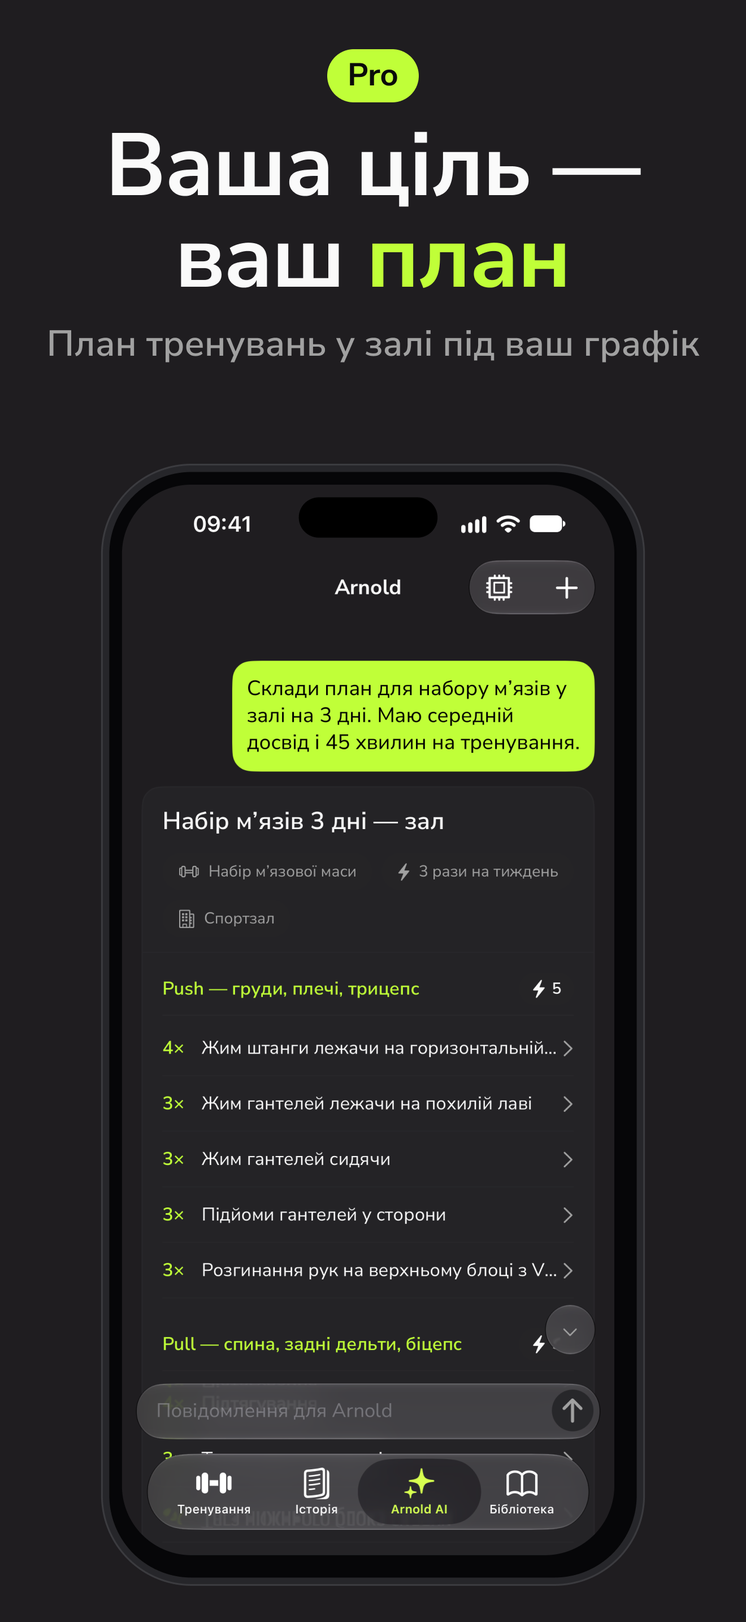
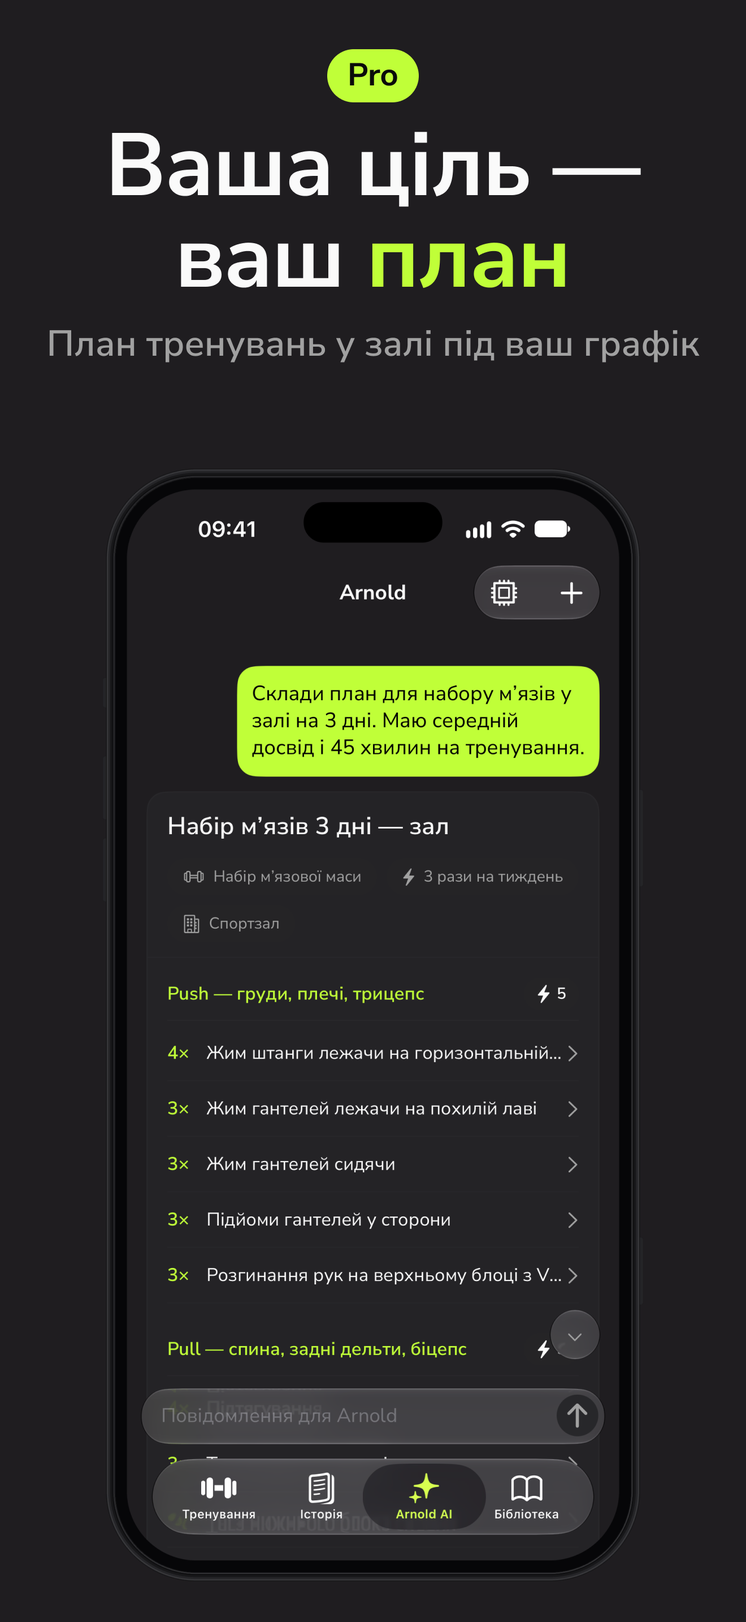
chore(mobile): realign the App Store screenshots and push them to a pending release by hand
The phones in the Figma App Store frames were hand-built mockups whose
screen sat off-centre and overflowed the bezel. Each is now an image layer
holding the matching framed PNG from marketing/screenshots/framed, and the
20 Screenshot sets are re-exported from those frames.

Adds the Update App Store Screenshots workflow: run by hand from main, it
pushes main's Screenshot sets, with the tag's own listing text, to the latest
release's App Store Connect draft without a build.

Changed region(s): [[0.1242, 0.2793, 0.8697, 0.962], [0.4348, 0.3414, 0.5591, 0.3724]]

diff --git a/AGENTS.md b/AGENTS.md
@@ -103,7 +103,7 @@ the build job (EAS build and auto-submit) has succeeded, using the existing EAS
 App Store Connect submission key, with the tag's App Store Screenshot sets
 (`marketing/screenshots/app-store/`) staged into it first by
 `node scripts/app-store-screenshots.mjs prepare` in the runner's temp
-directory; re-running that job alone retries the push without a new build. Never push
+directory; re-running that job alone retries the push without a new build. To fix a pending release's screenshots without a build, run the Update App Store Screenshots workflow (`update-app-store-screenshots.yml`) by hand from `main`: it pushes `main`'s Screenshot sets with the latest tag's own listing text to that version's draft, only while it's still editable. Never push
 metadata from PRs. `eas metadata:pull` also exports private review details and
 assets: retain only public listing text before staging. See README's App Store
 listing section for commands, credentials and draft verification.
@@ -614,7 +614,7 @@ Then review the diff against that intent: flag code that misses an acceptance cr
 
 ## CI/CD
 
-GitHub Actions use pnpm (`pnpm/action-setup`), `pnpm install --frozen-lockfile` and Node 24, the repo's minimum (root `engines`; EVE in `apps/arnold` needs it). Linux jobs run on a pinned `ubuntu-24.04` (never `ubuntu-latest`), every job sets `timeout-minutes` (a few times its usual run, so a hung test fails in minutes instead of GitHub's 6 h default; a job calling a reusable workflow can't, so the called workflow's job does), every pull request workflow has a `concurrency` group keyed on the pull request number with `cancel-in-progress` (a new push cancels the superseded run; any other run, `workflow_call` included, is keyed on its own run id, so it's never cancelled), actions stay on majors that run on Node 24, and every workflow runs the lockfile's Supabase CLI (the `@fitme/supabase` devDependency) through `pnpm exec`, never `supabase/setup-cli`. Unit tests run through `pnpm turbo run test`; the `checks` job runs `pnpm check`, the literal check (`pnpm literal-check`), the text check (`pnpm text-check`) and `pnpm typecheck`, after writing the `apps/mobile/expo-env.d.ts` that `expo start` generates (gitignored; its `expo/types` widen `ViewStyle` with web props), so mobile is typechecked as it is on a developer's machine, then `expo install --check` on the mobile app, non-blocking (`continue-on-error`, a warning annotation): Expo packages that fell behind the SDK's current patches show on the pull request without failing it, and are caught up by pinning each to the version it expects (exact versions, as `apps/mobile/package.json` pins every dependency), which Dependabot (`.github/dependabot.yml`) does on its own: every Monday one grouped `fix(mobile):` pull request with the patch releases of `expo`, `expo-*` (but `expo-mcp`), `@expo/*` and `jest-expo` (never a minor or major, so never a new SDK; `react-native`, the `react-native-*` libraries the check also covers and every other package stay by hand), at npm's latest patch rather than the version Expo expects, so this check on its pull request still shows any difference; the `secrets` job runs a pinned gitleaks release (checksum-verified) over the pull request's commits (see **Git**); the pgTAP suite and the MCP, `apps/api`, `packages/db` and `packages/services` integration tests run separately against a local Supabase stack (Supabase CLI, Supavisor in transaction mode) in `.github/workflows/integration-tests.yml`. Every `supabase start` / `db start` in CI is tried three times, stopping the stack in between, since the image registry's `toomanyrequests` throttle on shared runner IPs fails an occasional pull; a failure after the third attempt is real. The E2E workflow (`.github/workflows/e2e.yml`, run by hand through `workflow_dispatch`; `release.yml` doesn't call it yet) creates a Supabase preview branch, applies the migrations, and runs `apps/api` (its build, `node dist/node/index.js` on port 3003) on its macOS runner against it: the `fitme` login gets a password generated for the run (`openssl rand -hex 32`, masked, set through the Management API, never stored), the API gets the branch's transaction pooler URL as `fitme.<tenant>` with `application_name=api`, the Clerk development instance's `CLERK_JWT_KEY` (`pnpm --silent db clerk:jwt-key`, the E2E Users are on it), and no Upstash (the in-memory limiter) and no `LIBRARY_URL` / `LIBRARY_PUBLIC_API_SECRET` (no E2E flow saves a Plan, so no production secret goes into GitHub; a flow that does needs its own decision). The job fails if the API exits or `/health` doesn't answer within a minute; `clerk:check` with `API_URL` then proves a +clerk_test User's session token is accepted by the branch's Data API and by the API (`GET /v1/profile` answering 200; `CLERK_DEV_SECRET_KEY` required). The app is built with `EXPO_PUBLIC_API_URL=http://localhost:3003`, and the API's log (`apps/api/e2e-api.log`, checked for the password first) is uploaded with the Maestro results. The release workflow (`.github/workflows/release.yml`) never commits to `main` (it's protected): it derives the next version from the commits since the last `v*` tag following conventional commits (`feat:` → minor, `fix:` → patch, `BREAKING CHANGE:` or `type!:` → major), creates the tag with the GitHub release and the Linear release, then calls `.github/workflows/build-mobile.yml`. That workflow (also runnable by hand with a tag, to rebuild) stamps the tag's version into `apps/mobile/app.json` (whose committed `version` is a `0.0.0` placeholder) and starts the iOS production EAS build with auto-submit (every EAS profile extends `base` in `eas.json`, which pins the build's Node 24 version); once that `build` job has succeeded, its separate `listing` job checks the same tag out again, stamps the tag's version into `apps/mobile/store.config.json`'s `apple.version`, runs the screenshot script's `prepare` into `$RUNNER_TEMP` (the tag's Screenshot sets staged under content-derived names and written into the config's `screenshots` entries; a failure stops the job before the push; skipped for a tag without the script, which pushes text only) and runs `eas metadata:push` (skipped for an old tag without that file), so "Re-run failed jobs" after a failed push retries only the push, never a new EAS build or submission (every one of these jobs runs in the `production` GitHub environment, which holds the `EXPO_TOKEN` and `LINEAR_ACCESS_KEY` secrets). The tag is the source of truth for the app version. When the EAS Free plan's monthly build quota is used up (it resets on the 1st), `scripts/release-ios-local.sh [tag]` (default: the latest `v*` tag; also T3's "Release iOS (local)" action) does the same on a Mac: it refuses a tag that isn't on `origin/main`, checks out the tag, runs the tag's `scripts/app-store-screenshots.mjs check` (when the tag has it), stamps the version, builds with `eas build --local` and submits with `eas submit`, taking `SENTRY_AUTH_TOKEN` from Infisical `prod` `/Mobile` (Secret EAS variables don't reach local builds), then pushes the tag's Store listing like the `listing` job: stamps `apple.version`, runs `prepare` into a temporary directory and `eas metadata:push` through the pinned `eas-cli@27.2.0` (`npx`), skipping the push for a tag without `store.config.json` and the screenshots for one without the script; a failed push prints the retry, `--listing-only <tag>`, which pushes without building (see `marketing/screenshots/app-store/README.md`, Local release). `scripts/preview-ios-local.sh` (T3's "Preview iOS (local)") builds the current checkout, uncommitted changes included, with the `preview` profile (ad-hoc, the EAS `preview` environment) through `eas build --local` into `/tmp/fitme-preview-<sha>.ipa`: no quota, no submit, no prod secret (the Sentry source map upload is skipped); it installs on devices registered with `eas device:create`. The Database Types workflow (`.github/workflows/database-types.yml`) starts a local database, runs `pnpm db types:generate` (which also normalizes the output with Biome) and fails if `packages/supabase/src/database.types.ts` is stale; against the same database it then runs `pnpm --filter @fitme/db schema:generate` and fails if `packages/db/src/schema.ts` or `src/relations.ts` is stale. Every Vercel project (`apps/api`, `apps/arnold`, `apps/mcp`, `apps/site`, `apps/web`, `apps/webhooks`) sets `ignoreCommand` to `npx turbo-ignore@<version> --fallback=HEAD^1` in its `vercel.json`. A deployment is then skipped ("Canceled by Ignored Build Step") unless, since the branch's last deployment (the parent commit, through `--fallback`, on a branch's first one, so a new branch whose last commit leaves an app alone gets no preview of it), the app's workspace, a workspace package it depends on, a `globalDependencies` file (`turbo.json`'s, root `package.json` and `pnpm-workspace.yaml` included) or the app's own resolved lockfile entries changed; a lockfile change that only touches another app skips it, and turbo-ignore builds when it can't compare. A new Vercel app gets the same `vercel.json` line; keep the pin in step with the root `turbo` version. The one exception is `apps/library`: its Vercel project builds `main` only (`git.deploymentEnabled`) and has no `ignoreCommand`, so every push to `main` and every deploy hook builds it. A content release in `fitme-exercises` redeploys it through a deploy hook without a monorepo commit, and `turbo-ignore` would cancel that build whenever no commit since the last deployment touched the app (FIT-187). The Shell Scripts workflow (`.github/workflows/shell-scripts.yml`, pull requests touching `scripts/`) runs shellcheck and the Node helpers' tests on Linux, and parses every `scripts/*.sh` with macOS's own `/bin/bash` 3.2 on a pinned `macos-26` runner (see **Shell**). The App Store Screenshots workflow (`.github/workflows/app-store-screenshots.yml`, pull requests touching `marketing/screenshots/app-store/`, `apps/mobile/store.config.json` or `scripts/app-store-screenshots.mjs` and its tests) runs `node scripts/app-store-screenshots.mjs check --base <the pull request's base commit>`, with no install, no secrets and no Apple call; Build Mobile's `build` job runs the same `check` (no base) on the tagged checkout before `eas build`, skipping it for a tag that predates the script (see `marketing/screenshots/app-store/README.md`). The Library API workflow (`.github/workflows/library-api.yml`) and the Public API workflow (`.github/workflows/public-api.yml`) check their API's contract on pull requests; see `apps/library` and `apps/api`. The PR Risk workflow (`.github/workflows/pr-risk.yml`) gives every pull request to `main` exactly one of `risk:high` / `risk:medium` / `risk:low`, by the highest tier of Risk Path (`.github/risk-paths.yml`) its changed files match; see `docs/agents/pr-risk.md`.
+GitHub Actions use pnpm (`pnpm/action-setup`), `pnpm install --frozen-lockfile` and Node 24, the repo's minimum (root `engines`; EVE in `apps/arnold` needs it). Linux jobs run on a pinned `ubuntu-24.04` (never `ubuntu-latest`), every job sets `timeout-minutes` (a few times its usual run, so a hung test fails in minutes instead of GitHub's 6 h default; a job calling a reusable workflow can't, so the called workflow's job does), every pull request workflow has a `concurrency` group keyed on the pull request number with `cancel-in-progress` (a new push cancels the superseded run; any other run, `workflow_call` included, is keyed on its own run id, so it's never cancelled), actions stay on majors that run on Node 24, and every workflow runs the lockfile's Supabase CLI (the `@fitme/supabase` devDependency) through `pnpm exec`, never `supabase/setup-cli`. Unit tests run through `pnpm turbo run test`; the `checks` job runs `pnpm check`, the literal check (`pnpm literal-check`), the text check (`pnpm text-check`) and `pnpm typecheck`, after writing the `apps/mobile/expo-env.d.ts` that `expo start` generates (gitignored; its `expo/types` widen `ViewStyle` with web props), so mobile is typechecked as it is on a developer's machine, then `expo install --check` on the mobile app, non-blocking (`continue-on-error`, a warning annotation): Expo packages that fell behind the SDK's current patches show on the pull request without failing it, and are caught up by pinning each to the version it expects (exact versions, as `apps/mobile/package.json` pins every dependency), which Dependabot (`.github/dependabot.yml`) does on its own: every Monday one grouped `fix(mobile):` pull request with the patch releases of `expo`, `expo-*` (but `expo-mcp`), `@expo/*` and `jest-expo` (never a minor or major, so never a new SDK; `react-native`, the `react-native-*` libraries the check also covers and every other package stay by hand), at npm's latest patch rather than the version Expo expects, so this check on its pull request still shows any difference; the `secrets` job runs a pinned gitleaks release (checksum-verified) over the pull request's commits (see **Git**); the pgTAP suite and the MCP, `apps/api`, `packages/db` and `packages/services` integration tests run separately against a local Supabase stack (Supabase CLI, Supavisor in transaction mode) in `.github/workflows/integration-tests.yml`. Every `supabase start` / `db start` in CI is tried three times, stopping the stack in between, since the image registry's `toomanyrequests` throttle on shared runner IPs fails an occasional pull; a failure after the third attempt is real. The E2E workflow (`.github/workflows/e2e.yml`, run by hand through `workflow_dispatch`; `release.yml` doesn't call it yet) creates a Supabase preview branch, applies the migrations, and runs `apps/api` (its build, `node dist/node/index.js` on port 3003) on its macOS runner against it: the `fitme` login gets a password generated for the run (`openssl rand -hex 32`, masked, set through the Management API, never stored), the API gets the branch's transaction pooler URL as `fitme.<tenant>` with `application_name=api`, the Clerk development instance's `CLERK_JWT_KEY` (`pnpm --silent db clerk:jwt-key`, the E2E Users are on it), and no Upstash (the in-memory limiter) and no `LIBRARY_URL` / `LIBRARY_PUBLIC_API_SECRET` (no E2E flow saves a Plan, so no production secret goes into GitHub; a flow that does needs its own decision). The job fails if the API exits or `/health` doesn't answer within a minute; `clerk:check` with `API_URL` then proves a +clerk_test User's session token is accepted by the branch's Data API and by the API (`GET /v1/profile` answering 200; `CLERK_DEV_SECRET_KEY` required). The app is built with `EXPO_PUBLIC_API_URL=http://localhost:3003`, and the API's log (`apps/api/e2e-api.log`, checked for the password first) is uploaded with the Maestro results. The release workflow (`.github/workflows/release.yml`) never commits to `main` (it's protected): it derives the next version from the commits since the last `v*` tag following conventional commits (`feat:` → minor, `fix:` → patch, `BREAKING CHANGE:` or `type!:` → major), creates the tag with the GitHub release and the Linear release, then calls `.github/workflows/build-mobile.yml`. That workflow (also runnable by hand with a tag, to rebuild) stamps the tag's version into `apps/mobile/app.json` (whose committed `version` is a `0.0.0` placeholder) and starts the iOS production EAS build with auto-submit (every EAS profile extends `base` in `eas.json`, which pins the build's Node 24 version); once that `build` job has succeeded, its separate `listing` job checks the same tag out again, stamps the tag's version into `apps/mobile/store.config.json`'s `apple.version`, runs the screenshot script's `prepare` into `$RUNNER_TEMP` (the tag's Screenshot sets staged under content-derived names and written into the config's `screenshots` entries; a failure stops the job before the push; skipped for a tag without the script, which pushes text only) and runs `eas metadata:push` (skipped for an old tag without that file), so "Re-run failed jobs" after a failed push retries only the push, never a new EAS build or submission (every one of these jobs runs in the `production` GitHub environment, which holds the `EXPO_TOKEN` and `LINEAR_ACCESS_KEY` secrets). The tag is the source of truth for the app version. When the EAS Free plan's monthly build quota is used up (it resets on the 1st), `scripts/release-ios-local.sh [tag]` (default: the latest `v*` tag; also T3's "Release iOS (local)" action) does the same on a Mac: it refuses a tag that isn't on `origin/main`, checks out the tag, runs the tag's `scripts/app-store-screenshots.mjs check` (when the tag has it), stamps the version, builds with `eas build --local` and submits with `eas submit`, taking `SENTRY_AUTH_TOKEN` from Infisical `prod` `/Mobile` (Secret EAS variables don't reach local builds), then pushes the tag's Store listing like the `listing` job: stamps `apple.version`, runs `prepare` into a temporary directory and `eas metadata:push` through the pinned `eas-cli@27.2.0` (`npx`), skipping the push for a tag without `store.config.json` and the screenshots for one without the script; a failed push prints the retry, `--listing-only <tag>`, which pushes without building (see `marketing/screenshots/app-store/README.md`, Local release). `scripts/preview-ios-local.sh` (T3's "Preview iOS (local)") builds the current checkout, uncommitted changes included, with the `preview` profile (ad-hoc, the EAS `preview` environment) through `eas build --local` into `/tmp/fitme-preview-<sha>.ipa`: no quota, no submit, no prod secret (the Sentry source map upload is skipped); it installs on devices registered with `eas device:create`. The Database Types workflow (`.github/workflows/database-types.yml`) starts a local database, runs `pnpm db types:generate` (which also normalizes the output with Biome) and fails if `packages/supabase/src/database.types.ts` is stale; against the same database it then runs `pnpm --filter @fitme/db schema:generate` and fails if `packages/db/src/schema.ts` or `src/relations.ts` is stale. Every Vercel project (`apps/api`, `apps/arnold`, `apps/mcp`, `apps/site`, `apps/web`, `apps/webhooks`) sets `ignoreCommand` to `npx turbo-ignore@<version> --fallback=HEAD^1` in its `vercel.json`. A deployment is then skipped ("Canceled by Ignored Build Step") unless, since the branch's last deployment (the parent commit, through `--fallback`, on a branch's first one, so a new branch whose last commit leaves an app alone gets no preview of it), the app's workspace, a workspace package it depends on, a `globalDependencies` file (`turbo.json`'s, root `package.json` and `pnpm-workspace.yaml` included) or the app's own resolved lockfile entries changed; a lockfile change that only touches another app skips it, and turbo-ignore builds when it can't compare. A new Vercel app gets the same `vercel.json` line; keep the pin in step with the root `turbo` version. The one exception is `apps/library`: its Vercel project builds `main` only (`git.deploymentEnabled`) and has no `ignoreCommand`, so every push to `main` and every deploy hook builds it. A content release in `fitme-exercises` redeploys it through a deploy hook without a monorepo commit, and `turbo-ignore` would cancel that build whenever no commit since the last deployment touched the app (FIT-187). The Shell Scripts workflow (`.github/workflows/shell-scripts.yml`, pull requests touching `scripts/`) runs shellcheck and the Node helpers' tests on Linux, and parses every `scripts/*.sh` with macOS's own `/bin/bash` 3.2 on a pinned `macos-26` runner (see **Shell**). The App Store Screenshots workflow (`.github/workflows/app-store-screenshots.yml`, pull requests touching `marketing/screenshots/app-store/`, `apps/mobile/store.config.json` or `scripts/app-store-screenshots.mjs` and its tests) runs `node scripts/app-store-screenshots.mjs check --base <the pull request's base commit>`, with no install, no secrets and no Apple call; Build Mobile's `build` job runs the same `check` (no base) on the tagged checkout before `eas build`, skipping it for a tag that predates the script (see `marketing/screenshots/app-store/README.md`). The Update App Store Screenshots workflow (`.github/workflows/update-app-store-screenshots.yml`, run by hand from `main`, `production` environment) pushes `main`'s Screenshot sets to a release's App Store Connect draft without a build: `tag` defaults to the latest `v*` tag, the listing text is that tag's own `store.config.json` (stamped `apple.version`), then `prepare` and `eas metadata:push` as in the `listing` job; only while that version is still an editable draft, since EAS renames another draft to the number otherwise (see the screenshots README, Updating a pending release). The Library API workflow (`.github/workflows/library-api.yml`) and the Public API workflow (`.github/workflows/public-api.yml`) check their API's contract on pull requests; see `apps/library` and `apps/api`. The PR Risk workflow (`.github/workflows/pr-risk.yml`) gives every pull request to `main` exactly one of `risk:high` / `risk:medium` / `risk:low`, by the highest tier of Risk Path (`.github/risk-paths.yml`) its changed files match; see `docs/agents/pr-risk.md`.
 
 Every Vercel project (the ones above and `apps/library`'s `fitme-library`) is in team `provorovcom`: pass that team's `slug` / `teamId` to the Vercel MCP and `--scope provorovcom` to the `vercel` CLI. The Vercel team `provorovdev` (a 403 or an empty list for these projects) is only where the AI Gateway keys live. Sentry is the other way round: its org is `provorovdev` (every `fitme-*` project named above, `fitme-api`, `fitme-mobile` and the rest), so pass `provorovdev` to the Sentry MCP and `sentry-cli`, never `provorovcom` (a 404). Redeploying after an env-only change: see `docs/agents/secrets.md` (Vercel syncs).
 

diff --git a/marketing/screenshots/README.md b/marketing/screenshots/README.md
@@ -36,6 +36,12 @@ been refreshed as part of this screenshot set.
 
 ## App Store upload
 
+The App Store frames in the Fitme Figma file (page AppStore Screenshots,
+sections App Store · v2.4.1 · EN / UK) show these framed PNGs: each frame's
+phone is an image layer named after its source (`iPhone ·
+framed/<locale>/<scene>.png`), 962 px wide. To refresh one, reframe the capture,
+replace that layer's image, then export the frame at 1× and flatten it to RGB.
+
 The new 1206×2622 captures above are source material. They are not the
 1320×2868 large-display exports discussed below; prepare and validate an
 appropriate App Store set separately before configuring an upload.
@@ -88,7 +94,7 @@ The [27.2.0 screenshot task](https://github.com/expo/eas-cli/blob/v27.2.0/packag
 
 [`metadata:push`](https://github.com/expo/eas-cli/blob/v27.2.0/packages/eas-cli/src/commands/metadata/push.ts) passes `--non-interactive` through to [metadata authentication](https://github.com/expo/eas-cli/blob/v27.2.0/packages/eas-cli/src/metadata/auth.ts), which can retrieve the existing submission API key from EAS credentials. Screenshots use the same authenticated app context; no separate screenshot credential is required. Apple still requires metadata permissions: its [asset-management roles](https://developer.apple.com/help/app-store-connect/manage-app-information/manage-your-app-store-assets) are Account Holder, Admin, App Manager or Marketing. A Developer key that can upload builds alone is not proof of screenshot permission. This investigation does not inspect the stored key's role or test screenshot uploads against ASC.
 
-**Release tags:** [Release run 41300472511](https://github.com/kprovorov/fitme/actions/runs/41300472511/job/124830211269) checked out `v2.4.1` (`87d55cd28c9c16da2ca6d568e8558b858158087d`); its listing push succeeded at **2026-11-01 11:19:03 UTC / 12:19:03 Madrid**. [The workflow checks out the release tag](https://github.com/kprovorov/fitme/blob/v2.4.1/.github/workflows/build-mobile.yml#L42-L45), so later screenshot commits cannot reach that version through its release CI, including a rebuild of the same tag. The [App Store screenshots shipped from the repo](https://linear.app/provorov/project/app-store-screenshots-shipped-from-the-repo-b89e8a9bd811) project defines the reusable contract; the approved image set and its intended release are supplied separately.
+**Release tags:** [Release run 41300472511](https://github.com/kprovorov/fitme/actions/runs/41300472511/job/124830211269) checked out `v2.4.1` (`87d55cd28c9c16da2ca6d568e8558b858158087d`); its listing push succeeded at **2026-11-01 11:19:03 UTC / 12:19:03 Madrid**. [The workflow checks out the release tag](https://github.com/kprovorov/fitme/blob/v2.4.1/.github/workflows/build-mobile.yml#L42-L45), so later screenshot commits cannot reach that version through its release CI, including a rebuild of the same tag; the Update App Store Screenshots workflow pushes `main`'s sets to a still-editable draft instead (see [Updating a pending release](app-store/README.md#updating-a-pending-release)). The [App Store screenshots shipped from the repo](https://linear.app/provorov/project/app-store-screenshots-shipped-from-the-repo-b89e8a9bd811) project defines the reusable contract; the approved image set and its intended release are supplied separately.
 
 Verification: a scratch copy of the current listing with both blocks above passed AJV against the pinned schema; a non-string path was rejected. This proves the config shape only. [`metadata:lint`](https://github.com/expo/eas-cli/blob/v27.2.0/packages/eas-cli/src/commands/metadata/lint.ts) has no login context and is designed to avoid service calls, but no metadata command was run, per FIT-500's scope. No credentials or App Store Connect calls were used.
 

diff --git a/marketing/screenshots/app-store/README.md b/marketing/screenshots/app-store/README.md
@@ -181,8 +181,9 @@ exactly what the last one did.
 
 ## Release
 
-Screenshots only change through a release, and only to the release's own tag:
-a later commit never reaches an earlier version. Release CI
+Screenshots change through a release, to the release's own tag, or through
+[Updating a pending release](#updating-a-pending-release), which pushes main's
+sets to a release's draft without a new build. Release CI
 ([`build-mobile.yml`](../../../.github/workflows/build-mobile.yml)) uploads them
 in its `listing` job, which starts once the `build` job's EAS build has been
 submitted to App Store Connect, so the tagged version's draft exists. On the
@@ -219,6 +220,36 @@ again and runs no EAS build or submission, so no build quota or build number is
 spent. That's safe after a half-done upload: unchanged images keep their upload
 names, so the screenshots that already arrived are kept and only the rest are
 uploaded.
+
+## Updating a pending release
+
+To fix the screenshots of a release that's already tagged and submitted but not
+yet reviewed, merge the new images to `main`, then run the **Update App Store
+Screenshots** workflow
+([`update-app-store-screenshots.yml`](../../../.github/workflows/update-app-store-screenshots.yml))
+by hand from `main` (Actions → Update App Store Screenshots → Run workflow). No
+build, no submission, no build quota. Its one input, `tag`, defaults to the
+latest `v*` tag, the pending release. It:
+
+1. refuses a tag that isn't `vX.Y.Z`, isn't on `main` or has no
+   `apps/mobile/store.config.json`;
+2. takes the **tag's** listing config, stamped with its version, so the draft's
+   listing text stays what the release pushed and only the screenshots change;
+3. runs `prepare` on **main's** Screenshot sets into the runner's temp
+   directory (the check runs first, against the tag's config), and
+4. runs `eas metadata:push`, as the `listing` job does, with the same key.
+
+Each Screenshot set on `main` then replaces that Listing locale's set in the
+draft, exactly as in [Release](#release); unchanged images keep their upload
+names and stay. The same caveats apply: look at the draft afterwards.
+
+**Only while the version is an editable draft** (Prepare for Submission, or
+rejected). EAS finds the version by number among the editable ones; without a
+match it renames whatever editable draft exists to that number, or tries to
+create the version, which App Store Connect refuses for one already live. So
+never run it for a released tag while a newer draft exists. Runs queue rather
+than overlap, but nothing stops one from racing a release's own `listing` job:
+don't run it while a release is building.
 
 ## Local release
 
